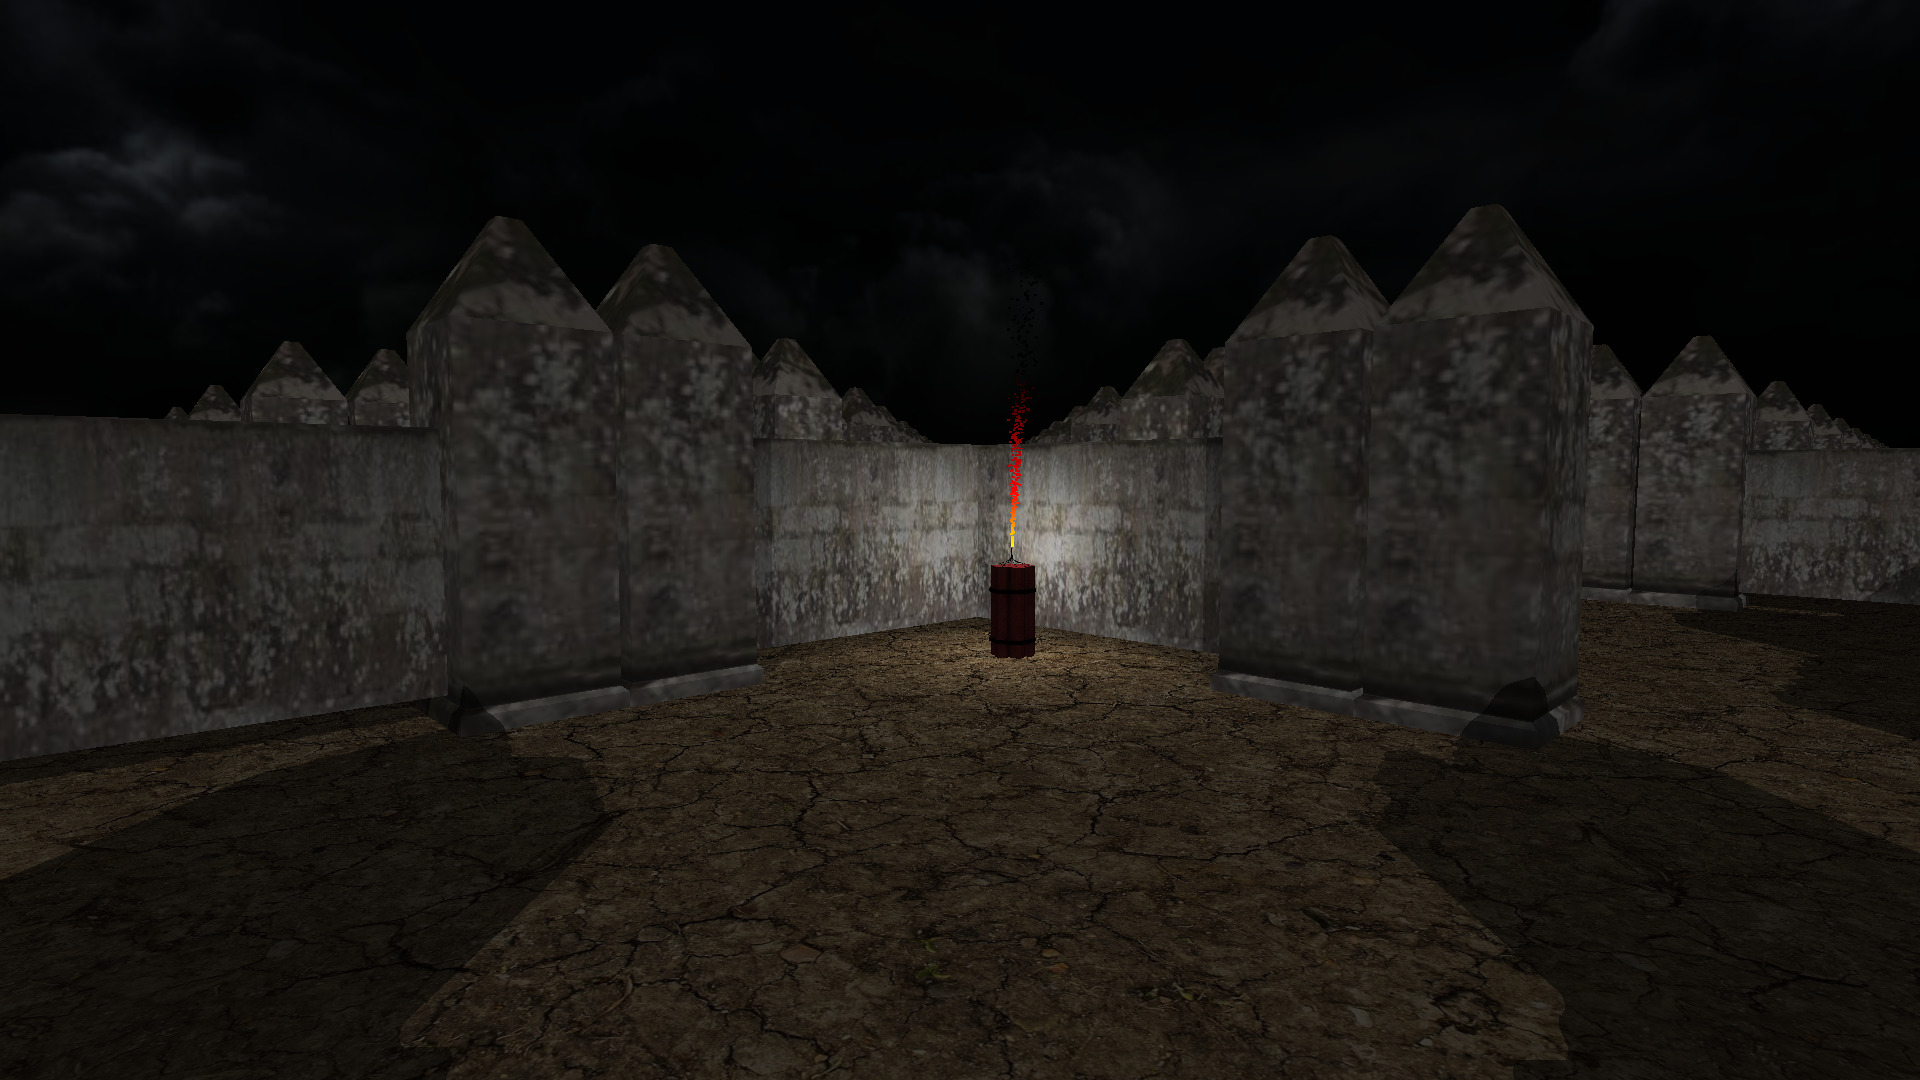
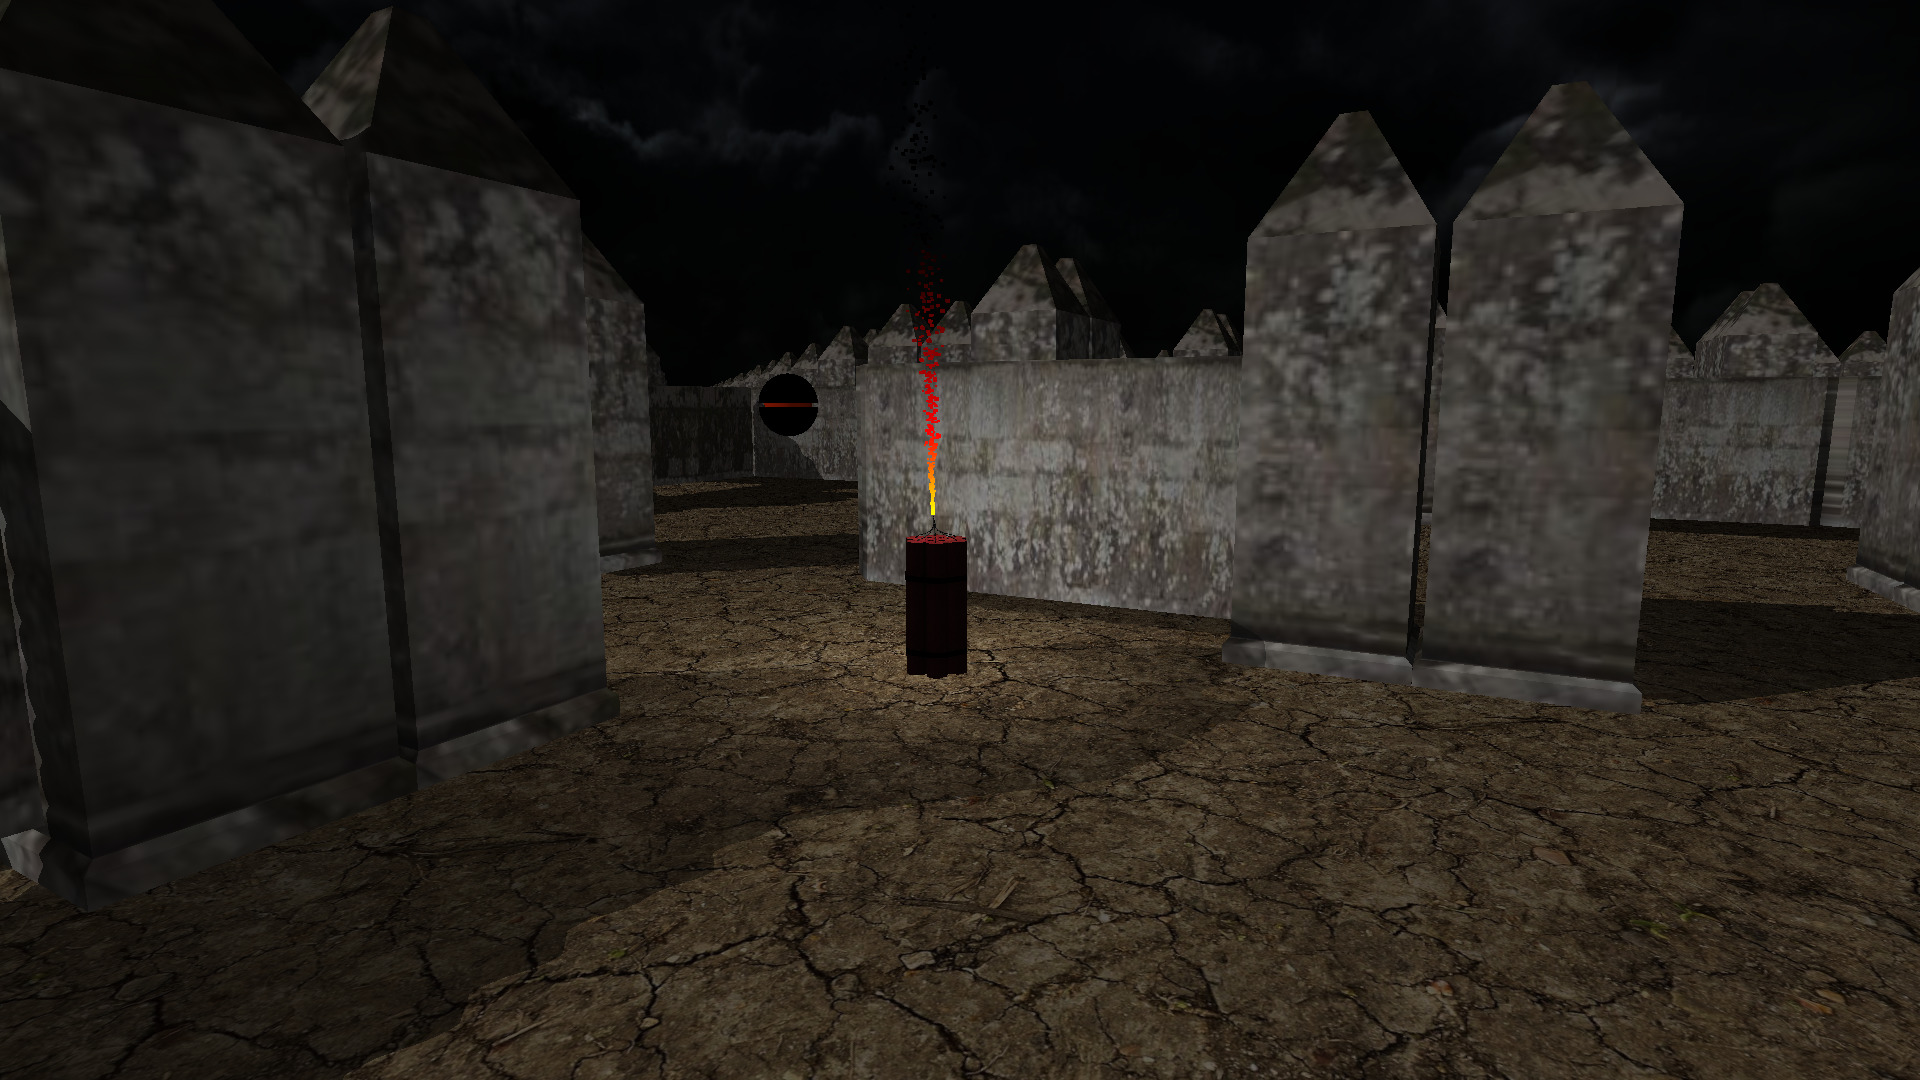
Multiple changes.

diff --git a/src/cpp/engine/mesh/mesh_renderer.cpp b/src/cpp/engine/mesh/mesh_renderer.cpp
@@ -51,6 +51,9 @@ void MeshRenderer::MeshDataStorage::uploadVertexData(
     uploadNewData(texcoords, texcoords_buffer, vertex_allocation, vertex_count);
   }
 
+  gl::Bind(model_matrix_buffer);
+  setupModelMatrixAttrib();
+
   vertex_count += vertex_count_to_upload;
   gl::Unbind(gl::kArrayBuffer);
   gl::Unbind(gl::kVertexArray);
@@ -76,29 +79,50 @@ void MeshRenderer::MeshDataStorage::uploadIndexData(const std::vector<GLuint>& i
   gl::Unbind(gl::kVertexArray);
 }
 
+gl::ArrayBuffer& MeshRenderer::MeshDataStorage::currentModelMatrixBuffer() {
+  if (first_model_matrix_buffer) {
+    return model_matrix_buffer;
+  } else {
+    return model_matrix_buffer_2;
+  }
+}
+
 void MeshRenderer::MeshDataStorage::uploadModelMatrices(const std::vector<glm::mat4>& matrices) {
   gl::Bind(vao);
   gl::Bind(model_matrix_buffer);
-  ensureModelMatrixBufferSize(matrices.size());
   if (Optimizations::kInvalidateBuffer) {
-    model_matrix_buffer.data(model_matrix_buffer_allocation * sizeof(glm::mat4), nullptr, gl::kStreamDraw);
-    model_matrix_buffer.subData(0, matrices.size() * sizeof(glm::mat4), matrices.data());
+    model_matrix_buffer.data(matrices, gl::kStreamDraw);
   } else {
-    model_matrix_buffer.subData(0, matrices.size() * sizeof(glm::mat4), matrices.data());
+    ensureModelMatrixBufferSize(matrices.size());
+    if (Optimizations::kPingPongBuffer) {
+      first_model_matrix_buffer = !first_model_matrix_buffer;
+      gl::Bind(currentModelMatrixBuffer());
+      glInvalidateBufferData(currentModelMatrixBuffer().expose());
+      currentModelMatrixBuffer().subData(0, matrices.size() * sizeof(glm::mat4), matrices.data());
+      setupModelMatrixAttrib();
+    } else {
+      glInvalidateBufferData(model_matrix_buffer.expose());
+      model_matrix_buffer.subData(0, matrices.size() * sizeof(glm::mat4), matrices.data());
+    }
   }
-
-  gl::Unbind(model_matrix_buffer);
+  gl::Unbind(currentModelMatrixBuffer());
   gl::Unbind(vao);
 }
 
 void MeshRenderer::MeshDataStorage::ensureModelMatrixBufferSize(size_t size) {
   if (model_matrix_buffer_allocation < size) {
-    if (model_matrix_buffer_allocation == 0) {
-      setupModelMatrixAttrib();
-    }
     model_matrix_buffer_allocation = 2*size;
     if (!Optimizations::kInvalidateBuffer) {
-      model_matrix_buffer.data(model_matrix_buffer_allocation * sizeof(glm::mat4), nullptr, gl::kDynamicDraw);
+      if (Optimizations::kPingPongBuffer) {
+        // model_matrix_buffer.data(model_matrix_buffer_allocation * sizeof(glm::mat4), nullptr, gl::kStreamDraw);
+        glBufferStorage(GL_ARRAY_BUFFER, model_matrix_buffer_allocation * sizeof(glm::mat4), nullptr, GL_DYNAMIC_STORAGE_BIT);
+        gl::Bind(model_matrix_buffer_2);
+        // model_matrix_buffer_2.data(model_matrix_buffer_allocation * sizeof(glm::mat4), nullptr, gl::kStreamDraw);
+        glBufferStorage(GL_ARRAY_BUFFER, model_matrix_buffer_allocation * sizeof(glm::mat4), nullptr, GL_DYNAMIC_STORAGE_BIT);
+      } else {
+        glBufferStorage(GL_ARRAY_BUFFER, model_matrix_buffer_allocation * sizeof(glm::mat4), nullptr, GL_DYNAMIC_STORAGE_BIT);
+        // model_matrix_buffer.data(model_matrix_buffer_allocation * sizeof(glm::mat4), nullptr, gl::kStreamDraw);
+      }
     }
   }
 }
@@ -130,6 +154,10 @@ MeshRenderer::MeshRenderer(const std::string& filename,
   // is stored as an attribute of the scene's root node.
   world_transformation_ =
     glm::inverse(engine::convertMatrix(scene_->mRootNode->mTransformation));
+
+  for (unsigned mesh_idx = 0; mesh_idx < scene_->mNumMeshes; ++mesh_idx) {
+    triangle_count += scene_->mMeshes[mesh_idx]->mNumFaces;
+  }
 }
 
 /// Sets up a btTriangleIndexVertexArray, and returns a vector of indices

diff --git a/src/cpp/settings.hpp b/src/cpp/settings.hpp
@@ -11,7 +11,7 @@ enum class SceneComplexity {
   kVeryLow, kLow, kMedium, kHigh, kVeryHigh, kMega, kUltra, kWtf
 };
 
-constexpr SceneComplexity kSceneComplexity = SceneComplexity::kHigh;
+constexpr SceneComplexity kSceneComplexity = SceneComplexity::kLow;
 
 constexpr int kLabyrinthRadius =
   kSceneComplexity == SceneComplexity::kVeryLow  ? 2 :
@@ -29,26 +29,29 @@ constexpr bool kDetermininistic = true;
 
 }
 
-// ========================= Algorithmic optimizations =========================
+// ========================= Optimizations =========================
 
 namespace Optimizations {
 
-// Algorithmic enhancement
-constexpr bool kFrustumCulling = true;
-constexpr bool kDepthOrdering = false; /* performance drop */
-constexpr bool kInverseDepthOrdering = false; /* useless */
+// CPU overhead "bugs" in original code
+constexpr bool kAIBugFix = true;
+constexpr bool kSleepRobots = true;
 
 // Driver overhead reduction
 constexpr bool kInstanceGrouping = true;
 constexpr bool kAttribModelMat = true;
-constexpr bool kInstancing = true;
-constexpr bool kSharedPrograms = true; /* useless */
 constexpr bool kInvalidateBuffer = true;
+constexpr bool kInstancing = true;
+constexpr bool kSharedPrograms = false; /* useless */
+constexpr bool kPingPongBuffer = false; /* useless */
 
-// CPU bottleneck fixes
-constexpr bool kAIBugFix = true;
-constexpr bool kSleepRobots = true;
-constexpr bool kDelayedModelMatrixEvalutaion = true;
+// GPU bottleneck fixes
+constexpr bool kFrustumCulling = true;
+
+// Not so successful optimizations
+constexpr bool kDelayedModelMatrixEvalutaion = false; /* performance drop */
+constexpr bool kDepthOrdering = false;                /* performance drop */
+constexpr bool kInverseDepthOrdering = false;         /* useless */
 
 static_assert(!kAttribModelMat || kInstanceGrouping,
               "kAttribModelMat should only be set if kInstanceGrouping is true");
@@ -62,8 +65,32 @@ static_assert(!kInverseDepthOrdering || kDepthOrdering,
               "kInverseDepthOrdering should only be set if kDepthOrdering is true");
 static_assert(!kInvalidateBuffer || kAttribModelMat,
               "kInvalidateBuffer should only be set if kAttribModelMat is true");
-
 }
+
+
+
+
+/*
+
+Default                      -> 0.2   FPS
+kAIBugFix                    -> 7.1   FPS
+kFrustumCulling              -> 13    FPS
+kInstanceGrouping            -> 38.27 FPS
+kAttribModelMat              -> 77    FPS
+-----------------------------------------
+kInvalidateBuffer            -> 79    FPS
+kInstancing (first try)      -> 61    FPS
+kInstancing + driver update  -> 89    FPS
+
+kDelayedModelMatrixEvalutaion   -> 67 FPS
+kDepthOrdering (std::sort)      -> 15 FPS
+kDepthOrdering (compute shader) -> 42 FPS
+
+Smaller scene + Keep order      -> 330 FPS
+Smaller scene + Far to close    -> 328 FPS
+Smaller scene + Close to far    -> 315 FPS
+*/
+
 
 /*
   TODO: These FPS numbers are out of date, regenerate them at the end

diff --git a/src/cpp/engine/mesh/mesh_renderer.hpp b/src/cpp/engine/mesh/mesh_renderer.hpp
@@ -33,7 +33,8 @@ class MeshRenderer {
                     normals_buffer,
                     tangents_buffer,
                     texcoords_buffer,
-                    model_matrix_buffer;
+                    model_matrix_buffer,
+                    model_matrix_buffer_2;
     gl::IndexBuffer indices_buffer;
 
     size_t vertex_count = 0;
@@ -41,6 +42,7 @@ class MeshRenderer {
     size_t idx_count = 0;
     size_t idx_allocation = 0;
     size_t model_matrix_buffer_allocation = 0;
+    bool first_model_matrix_buffer = true;
 
     void uploadVertexData(const std::vector<glm::vec3>& positions,
                           const std::vector<glm::vec3>& normals,
@@ -87,6 +89,7 @@ class MeshRenderer {
       buffer = std::move(temp_buffer);
     }
 
+    gl::ArrayBuffer& currentModelMatrixBuffer();
     void ensureModelMatrixBufferSize(size_t size);
     void setupModelMatrixAttrib();
   };
@@ -143,6 +146,8 @@ class MeshRenderer {
   bool is_setup_ = false;
   /// Textures can be disabled, and not used for rendering
   bool textures_enabled_ = true;
+
+  unsigned triangle_count = 0;
 
   /// It shouldn't be copyable.
   MeshRenderer(const MeshRenderer& src) = delete;
@@ -241,6 +246,8 @@ public:
 
   /// Returns the radius of the bounding sphere.
   float bSphereRadius() const;
+
+  unsigned triangleCount() const { return triangle_count; }
 
   /// Enables the use of textures for rendering.
   void enableTextures() { textures_enabled_ = true; }

diff --git a/src/cpp/fps_display.hpp b/src/cpp/fps_display.hpp
@@ -3,13 +3,14 @@
 #ifndef LOD_FPS_DISPLAY_H_
 #define LOD_FPS_DISPLAY_H_
 
+#include "statistics.hpp"
 #include "engine/scene.hpp"
 #include "engine/game_object.hpp"
 
 class FpsDisplay : public engine::GameObject {
  public:
   explicit FpsDisplay(engine::GameObject* parent)
-      : engine::GameObject(parent), kRefreshInterval(0.5f)
+      : engine::GameObject(parent)
       , accum_time_(scene_->camera_time().dt()) {
   }
 
@@ -20,7 +21,7 @@ class FpsDisplay : public engine::GameObject {
   }
 
  private:
-  const float kRefreshInterval;
+  constexpr static float kRefreshInterval = 0.25f;
   double sum_frame_num_ = 0, sum_time_ = 0, accum_time_;
   int calls_ = 0;
   bool first_display_interval_ = true;
@@ -33,7 +34,9 @@ class FpsDisplay : public engine::GameObject {
         // The first interval is usually much slower, remove that bias
         first_display_interval_ = false;
       } else {
-        std::cout << "FPS: " << calls_ / accum_time_ << std::endl;
+        std::cout << "Object Count: " << Statistics::object_count << std::endl;
+        std::cout << "Triangle count: " << Statistics::triangle_count << std::endl;
+        std::cout << "FPS: " << calls_ / accum_time_ << std::endl << std::endl;
         sum_frame_num_ += calls_;
         sum_time_ += accum_time_;
       }

diff --git a/src/cpp/engine/mesh/mesh_object.cpp b/src/cpp/engine/mesh/mesh_object.cpp
@@ -1,5 +1,6 @@
 #include "engine/mesh/mesh_object.hpp"
 #include "settings.hpp"
+#include "statistics.hpp"
 
 #include "engine/scene.hpp"
 #include "engine/shadow.hpp"
@@ -9,7 +10,13 @@ MeshObject::MeshObject(engine::GameObject* parent, const std::string& mesh_path,
                        const std::string& vertex_shader)
     : GameObject(parent, initial_transform)
     , renderer_(GetMeshRenderer(mesh_path, scene_->shader_manager(), scene_->mesh_cache(), vertex_shader))
-{ }
+{
+  Statistics::triangle_count += renderer_->triangle_count();
+}
+
+MeshObject::~MeshObject() {
+  Statistics::triangle_count -= renderer_->triangle_count();
+}
 
 btCollisionShape* MeshObject::GetCollisionShape() {
   return renderer_->GetCollisionShape();

diff --git a/src/cpp/engine/game_object-inl.hpp b/src/cpp/engine/game_object-inl.hpp
@@ -4,6 +4,7 @@
 #define ENGINE_GAME_OBJECT_INL_HPP_
 
 #include <iostream>
+#include "statistics.hpp"
 #include "engine/game_object.hpp"
 
 namespace engine {
@@ -13,6 +14,7 @@ GameObject::GameObject(GameObject* parent, const Transform_t& transform)
     : scene_(parent ? parent->scene_ : nullptr), parent_(parent)
     , transform_(new Transform_t{transform})
     , enabled_(true) {
+  Statistics::object_count++;
   if (parent && transform.parent() == nullptr) {
     transform_->set_parent(&parent_->transform());
   }

diff --git a/src/cpp/game_logic/player.cpp b/src/cpp/game_logic/player.cpp
@@ -43,7 +43,7 @@ void Player::KeyAction(int key, int scancode, int action, int mods) {
       dynamite_trafo.set_pos({pos.x, 0, pos.z});
       scene()->AddComponent<Dynamite>(dynamite_trafo, 2.5 + 1.0*Math::Rand01());
     } else if (key == GLFW_KEY_F1) {
-      for (int i = 0; i < 2; ++i) {
+      for (int i = 0; i < 4; ++i) {
         dynamite_trafo.set_pos({Math::Rand01()*256-128, 0, Math::Rand01()*256-128});
         scene()->AddComponent<Dynamite>(dynamite_trafo, 2.5 + 1.0*Math::Rand01());
       }

diff --git a/src/cpp/engine/game_object.cpp b/src/cpp/engine/game_object.cpp
@@ -1,5 +1,6 @@
 // Copyright (c) Tamas Csala
 
+#include "statistics.hpp"
 #include "engine/scene.hpp"
 #include "engine/game_object.hpp"
 #include "engine/game_engine.hpp"
@@ -16,6 +17,7 @@ GameObject::~GameObject() {
   // The childrens destructor have to run before this one's,
   // as those functions might try to access this object via the parent_ ptr
   ResetChildren ();
+  Statistics::object_count--;
 }
 
 GameObject* GameObject::AddComponent(std::unique_ptr<GameObject>&& component) {

diff --git a/src/cpp/main_scene.cpp b/src/cpp/main_scene.cpp
@@ -64,7 +64,7 @@ MainScene::MainScene(engine::GameEngine* engine, GLFWwindow* window)
   });
 
   const glm::vec3 kLightPos = glm::normalize(glm::vec3{1.0});
-  AddLightSource({LightSource::Type::kDirectional, kLightPos, glm::vec3{0.20f}});
+  AddLightSource({LightSource::Type::kDirectional, kLightPos, glm::vec3{0.40f}});
 
   glm::vec4 scene_bsphere{0, 0, 0, (Settings::kLabyrinthRadius+1)*kWallLength};
   shadow_ = AddComponent<engine::Shadow>(kLightPos, scene_bsphere, 4096);

diff --git a/src/cpp/engine/mesh/mesh_object.hpp b/src/cpp/engine/mesh/mesh_object.hpp
@@ -13,6 +13,7 @@ class MeshObject : public engine::GameObject {
              const std::string& vertex_shader =
                 Optimizations::kAttribModelMat ? "mesh_attribute_model_mat.vert"
                                                : "mesh_uniform_model_mat.vert");
+  virtual ~MeshObject();
 
   btCollisionShape* GetCollisionShape();
   engine::BoundingBox GetBoundingBox() const;

diff --git a/src/cpp/engine/mesh/mesh_object_renderer.hpp b/src/cpp/engine/mesh/mesh_object_renderer.hpp
@@ -36,6 +36,8 @@ public:
   void set_cast_shadows(bool value) { cast_shadows_ = value; }
   void set_recieve_shadows(bool value) { recieve_shadows_ = value; }
 
+  unsigned triangle_count() const { return mesh_.triangleCount(); }
+
 private:
   engine::MeshRenderer mesh_;
 
